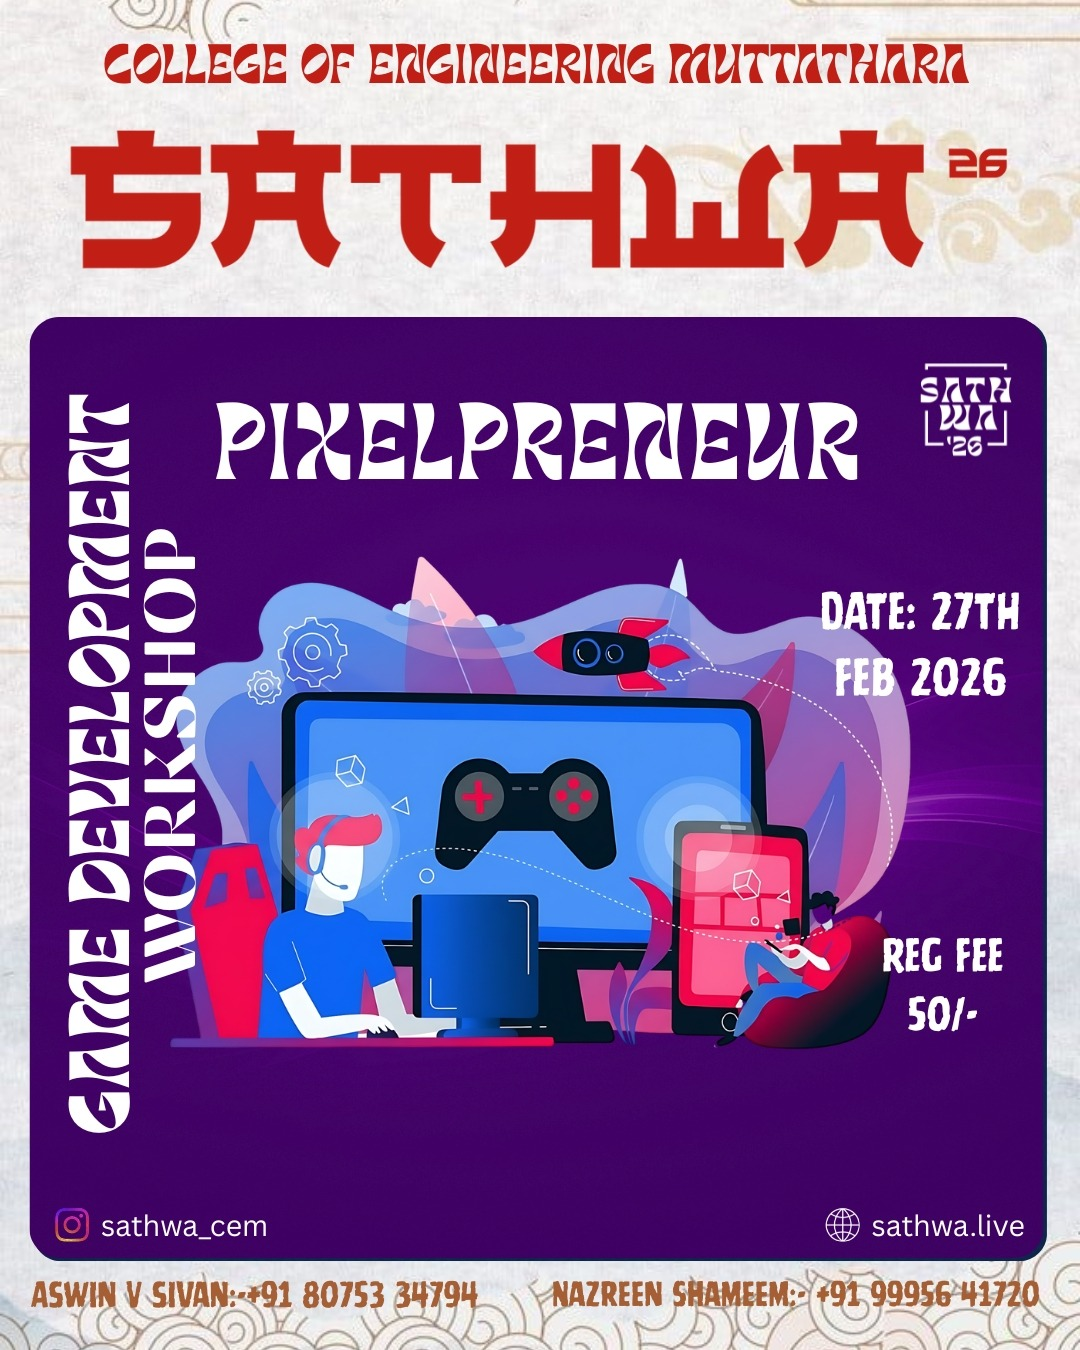
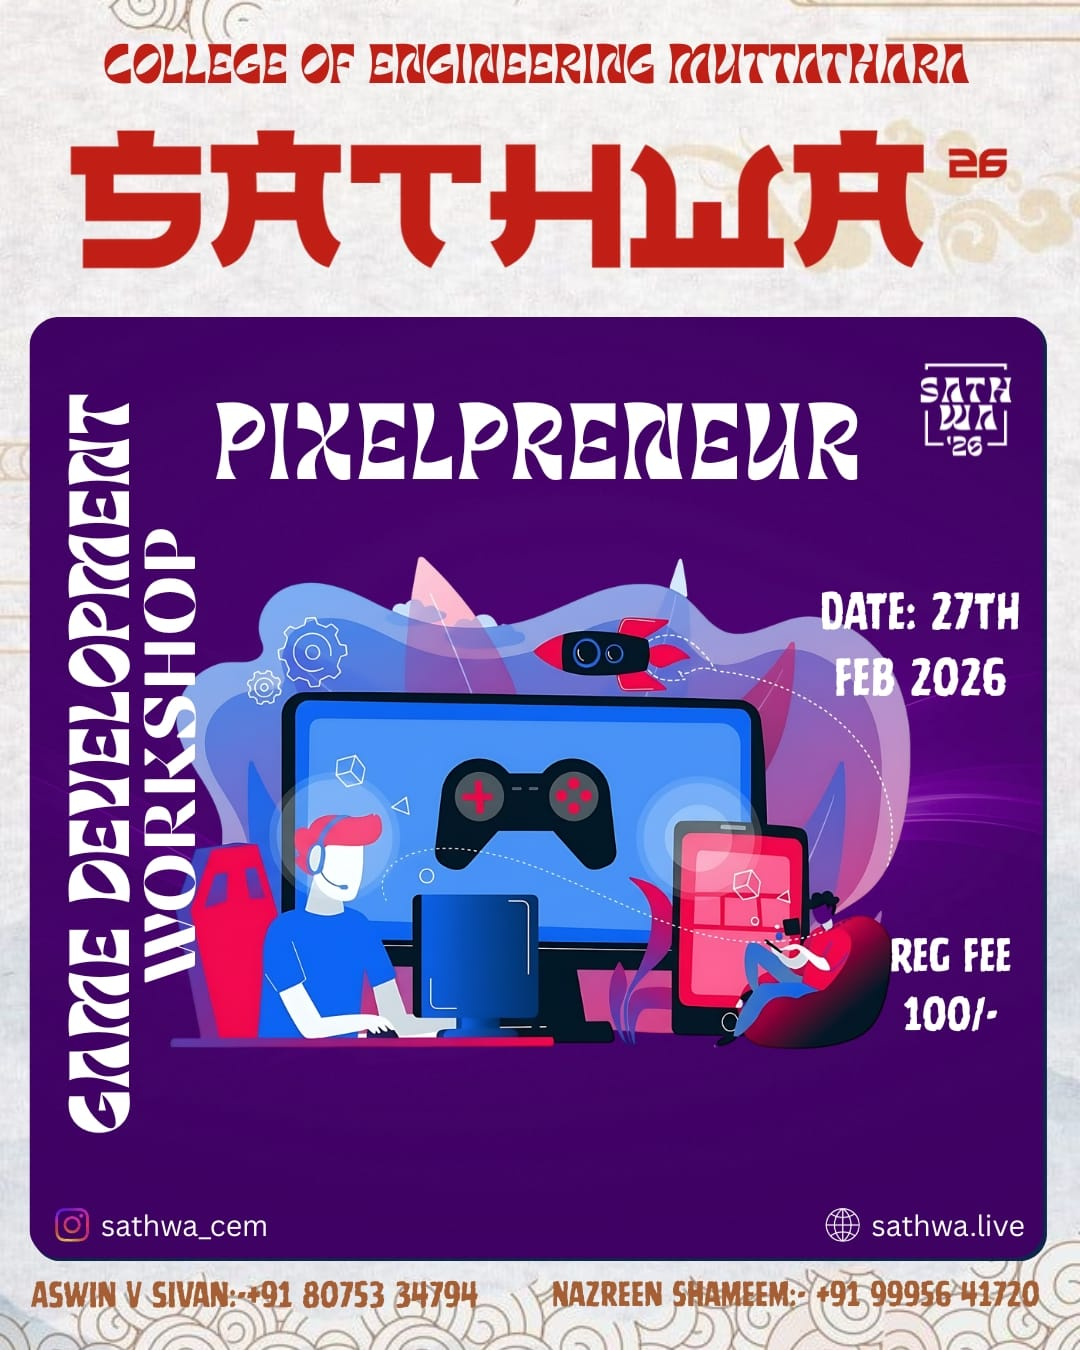
chore: update workshop(game dev) data and format

Changed region(s): [[0.7944, 0.6844, 0.9472, 0.7778]]

diff --git a/app/globals.css b/app/globals.css
@@ -340,7 +340,6 @@ body {
 /* } */
 
 @keyframes pulse {
-
   0%,
   100% {
     opacity: 1;
@@ -355,12 +354,16 @@ body {
 
 /* --- Auto Show Utilities --- */
 .mask-image-gradient {
-  mask-image: linear-gradient(to bottom,
-      rgba(0, 0, 0, 1) 0%,
-      rgba(0, 0, 0, 0) 100%);
-  -webkit-mask-image: linear-gradient(to bottom,
-      rgba(0, 0, 0, 1) 0%,
-      rgba(0, 0, 0, 0) 100%);
+  mask-image: linear-gradient(
+    to bottom,
+    rgba(0, 0, 0, 1) 0%,
+    rgba(0, 0, 0, 0) 100%
+  );
+  -webkit-mask-image: linear-gradient(
+    to bottom,
+    rgba(0, 0, 0, 1) 0%,
+    rgba(0, 0, 0, 0) 100%
+  );
 }
 
 .title-glow {
@@ -471,10 +474,12 @@ body {
   width: 100%;
   height: 100px;
   z-index: 10;
-  background: linear-gradient(0deg,
-      rgba(0, 0, 0, 0) 0%,
-      rgba(204, 255, 0, 0.05) 50%,
-      rgba(0, 0, 0, 0) 100%);
+  background: linear-gradient(
+    0deg,
+    rgba(0, 0, 0, 0) 0%,
+    rgba(204, 255, 0, 0.05) 50%,
+    rgba(0, 0, 0, 0) 100%
+  );
   opacity: 0.1;
   position: absolute;
   bottom: 100%;
@@ -553,14 +558,22 @@ body {
 
 .hero-bg {
   background:
-    radial-gradient(900px 500px at 65% 40%, rgba(255, 255, 255, 0.10), transparent 60%),
-
-    radial-gradient(700px 350px at 20% 30%, rgba(0, 71, 255, 0.05), transparent 60%),
-    radial-gradient(800px 400px at 80% 70%, rgba(204, 255, 0, 0.04), transparent 65%),
-
-    linear-gradient(180deg, #050505 0%, #0b0b0b 100%);
+    radial-gradient(
+      900px 500px at 65% 40%,
+      rgba(255, 255, 255, 0.1),
+      transparent 60%
+    ),
+    radial-gradient(
+      700px 350px at 20% 30%,
+      rgba(0, 71, 255, 0.05),
+      transparent 60%
+    ),
+    radial-gradient(
+      800px 400px at 80% 70%,
+      rgba(204, 255, 0, 0.04),
+      transparent 65%
+    ), linear-gradient(180deg, #050505 0%, #0b0b0b 100%);
 }
-
 
 /* cinematic vignette */
 .hero-bg::after {
@@ -569,13 +582,13 @@ body {
   inset: 0;
   pointer-events: none;
 
-  background:
-    radial-gradient(ellipse at center,
-      rgba(255, 255, 255, 0.04) 0%,
-      rgba(0, 0, 0, 0.35) 65%,
-      rgba(0, 0, 0, 0.65) 100%);
+  background: radial-gradient(
+    ellipse at center,
+    rgba(255, 255, 255, 0.04) 0%,
+    rgba(0, 0, 0, 0.35) 65%,
+    rgba(0, 0, 0, 0.65) 100%
+  );
 }
-
 
 .ui-glow {
   filter: drop-shadow(0 0 12px rgba(255, 255, 255, 0.12));
@@ -628,14 +641,14 @@ body {
   content: "";
   position: absolute;
   inset: 0;
-  background:
-    linear-gradient(to left, rgba(0, 0, 0, 0.65), transparent 70%);
+  background: linear-gradient(to left, rgba(0, 0, 0, 0.65), transparent 70%);
   pointer-events: none;
 }
 
 .wheel-wrap {
-  filter:
-    brightness(0.9) contrast(1.1) drop-shadow(0 0 18px rgba(255, 255, 255, 0.07)) drop-shadow(0 0 50px rgba(204, 255, 0, 0.05));
+  filter: brightness(0.9) contrast(1.1)
+    drop-shadow(0 0 18px rgba(255, 255, 255, 0.07))
+    drop-shadow(0 0 50px rgba(204, 255, 0, 0.05));
 }
 
 .autoshow-tag {
@@ -698,9 +711,11 @@ body {
   bottom: -4%;
   width: 50%;
   height: 6%;
-  background: radial-gradient(ellipse at center,
-      rgba(0, 0, 0, 0.45),
-      transparent 70%);
+  background: radial-gradient(
+    ellipse at center,
+    rgba(0, 0, 0, 0.45),
+    transparent 70%
+  );
   filter: blur(14px);
   transform: scaleY(0.6);
   opacity: 0.6;

diff --git a/components/autoshow/AutoShowHero.tsx b/components/autoshow/AutoShowHero.tsx
@@ -98,10 +98,8 @@ export default function AutoShowHero() {
           duration: 1.7,
           ease: "elastic.out(1, 0.45)",
         },
-        "-=1.0"
+        "-=1.0",
       );
-
-
 
       gsap.set(row1TextInnerRef.current, {
         scale: 1,
@@ -165,7 +163,6 @@ export default function AutoShowHero() {
           ease: "power2.out",
         });
       });
-
     }, containerRef);
 
     return () => ctx.revert();
@@ -192,12 +189,8 @@ export default function AutoShowHero() {
             {/* BIG BACKGROUND NUMBER */}
 
             <div className="absolute left-[5%] bottom-[5%] pointer-events-none z-0">
-              <span className="hero-date-bg">
-                27
-              </span>
+              <span className="hero-date-bg">27</span>
             </div>
-
-
 
             {/* CAR (leader) */}
             <div className="absolute right-[-30%] bottom-0 w-[60%] h-[100%] z-10">
@@ -229,7 +222,6 @@ export default function AutoShowHero() {
                 style={{ filter: "drop-shadow(0 0 4px rgba(255,255,255,0.4))" }}
               />
             </svg> */}
-
 
             <div
               ref={row1TextInnerRef}
@@ -294,8 +286,6 @@ export default function AutoShowHero() {
           </div>
         </div>
 
-
-
         {/* === ROW 3: AUTO SHOW + WHEEL === */}
         {/* "no need to like split the car and wheel... as i can see a line there splitting verticaaly" -> removed vertical border */}
         <div
@@ -311,11 +301,8 @@ export default function AutoShowHero() {
               </span>
             </div> */}
             <div className="absolute top-[15%] z-20 mix-blend-difference pb-4">
-              <div className="autoshow-tag">
-                AUTOSHOW
-              </div>
+              <div className="autoshow-tag">AUTOSHOW</div>
             </div>
-
 
             {/* Cropped Nose */}
             <div className="absolute left-[-80%] bottom-[-18%] w-[180%] h-[100%]">
@@ -359,10 +346,7 @@ export default function AutoShowHero() {
             {/* <h2 className="text-white font-[Geist Mono] text-2xl md:text-4xl italic font-light tracking-widest opacity-80">
               /STUNTS/
             </h2> */}
-            <h2 className="stunts-label">
-              STUNTS
-            </h2>
-
+            <h2 className="stunts-label">STUNTS</h2>
           </div>
 
           {/* Right Bike */}
@@ -382,7 +366,9 @@ export default function AutoShowHero() {
         <div className="w-full bg-[#E6E6E6] mt-5 border-t-4 border-black z-20 relative">
           <div className="animate-marquee1 whitespace-nowrap flex gap-10 items-center text-black font-black font-mono text-md uppercase tracking-widest py-1 leading-none">
             {Array(6)
-              .fill("ENGINE ROARS ✶ BURNT RUBBER ✶ LIVE STUNTS ✶ PURE ADRENALINE")
+              .fill(
+                "ENGINE ROARS ✶ BURNT RUBBER ✶ LIVE STUNTS ✶ PURE ADRENALINE",
+              )
               .map((text, i) => (
                 <span key={i} className="flex items-center gap-6 md:gap-12">
                   {text}{" "}
@@ -394,8 +380,7 @@ export default function AutoShowHero() {
               ))}
           </div>
         </div>
-
       </div>
-    </section >
+    </section>
   );
 }

diff --git a/components/StaggeredMenu/StaggeredMenu.tsx b/components/StaggeredMenu/StaggeredMenu.tsx
@@ -398,7 +398,6 @@ export const StaggeredMenu: React.FC<StaggeredMenuProps> = ({
       const current = window.scrollY;
       const diff = current - lastScroll;
 
-
       if (current < hideAfter) {
         header.style.transform = "translateY(0)";
         hidden = false;
@@ -407,13 +406,11 @@ export const StaggeredMenu: React.FC<StaggeredMenuProps> = ({
         return;
       }
 
-
       if (diff > 0 && !hidden) {
         header.style.transform = "translateY(-100%)";
         hidden = true;
         upScrollDistance = 0;
       }
-
 
       if (diff < 0 && hidden) {
         upScrollDistance += Math.abs(diff);
@@ -472,15 +469,7 @@ export const StaggeredMenu: React.FC<StaggeredMenuProps> = ({
     }
   }, [playClose, animateIcon, animateColor, animateText, onMenuClose]);
 
-
-
-
-
-
   const headerRef = useRef<HTMLDivElement | null>(null);
-
-
-
 
   return (
     <div className={`sm-scope ${isFixed ? "sm-fixed" : "sm-absolute-fill"}`}>

diff --git a/components/StaggeredMenu/StaggeredMenu.css b/components/StaggeredMenu/StaggeredMenu.css
@@ -50,15 +50,14 @@
   top: 0;
   left: 0;
   right: 0;
-  transition: transform 0.4s cubic-bezier(.4, 0, .2, 1),
+  transition:
+    transform 0.4s cubic-bezier(0.4, 0, 0.2, 1),
     box-shadow 0.3s ease,
     backdrop-filter 0.3s ease;
   will-change: transform;
 }
 
-
-
-.sm-scope .staggered-menu-header>* {
+.sm-scope .staggered-menu-header > * {
   pointer-events: auto;
 }
 

diff --git a/data/workshops.js b/data/workshops.js
@@ -198,7 +198,7 @@ export const workshop = [
     url: "/assets/workshops/pixelpreneur.jpeg",
     regLink: "https://forms.gle/ce5YJV5KfVCUmMSa8",
     isRegOpen: true,
-    price: "50",
+    price: "100",
     pricePool: "",
     guidelines:
       "Laptop recommended. Participants will build a game prototype and take part in idea and quiz activities during the session.",
